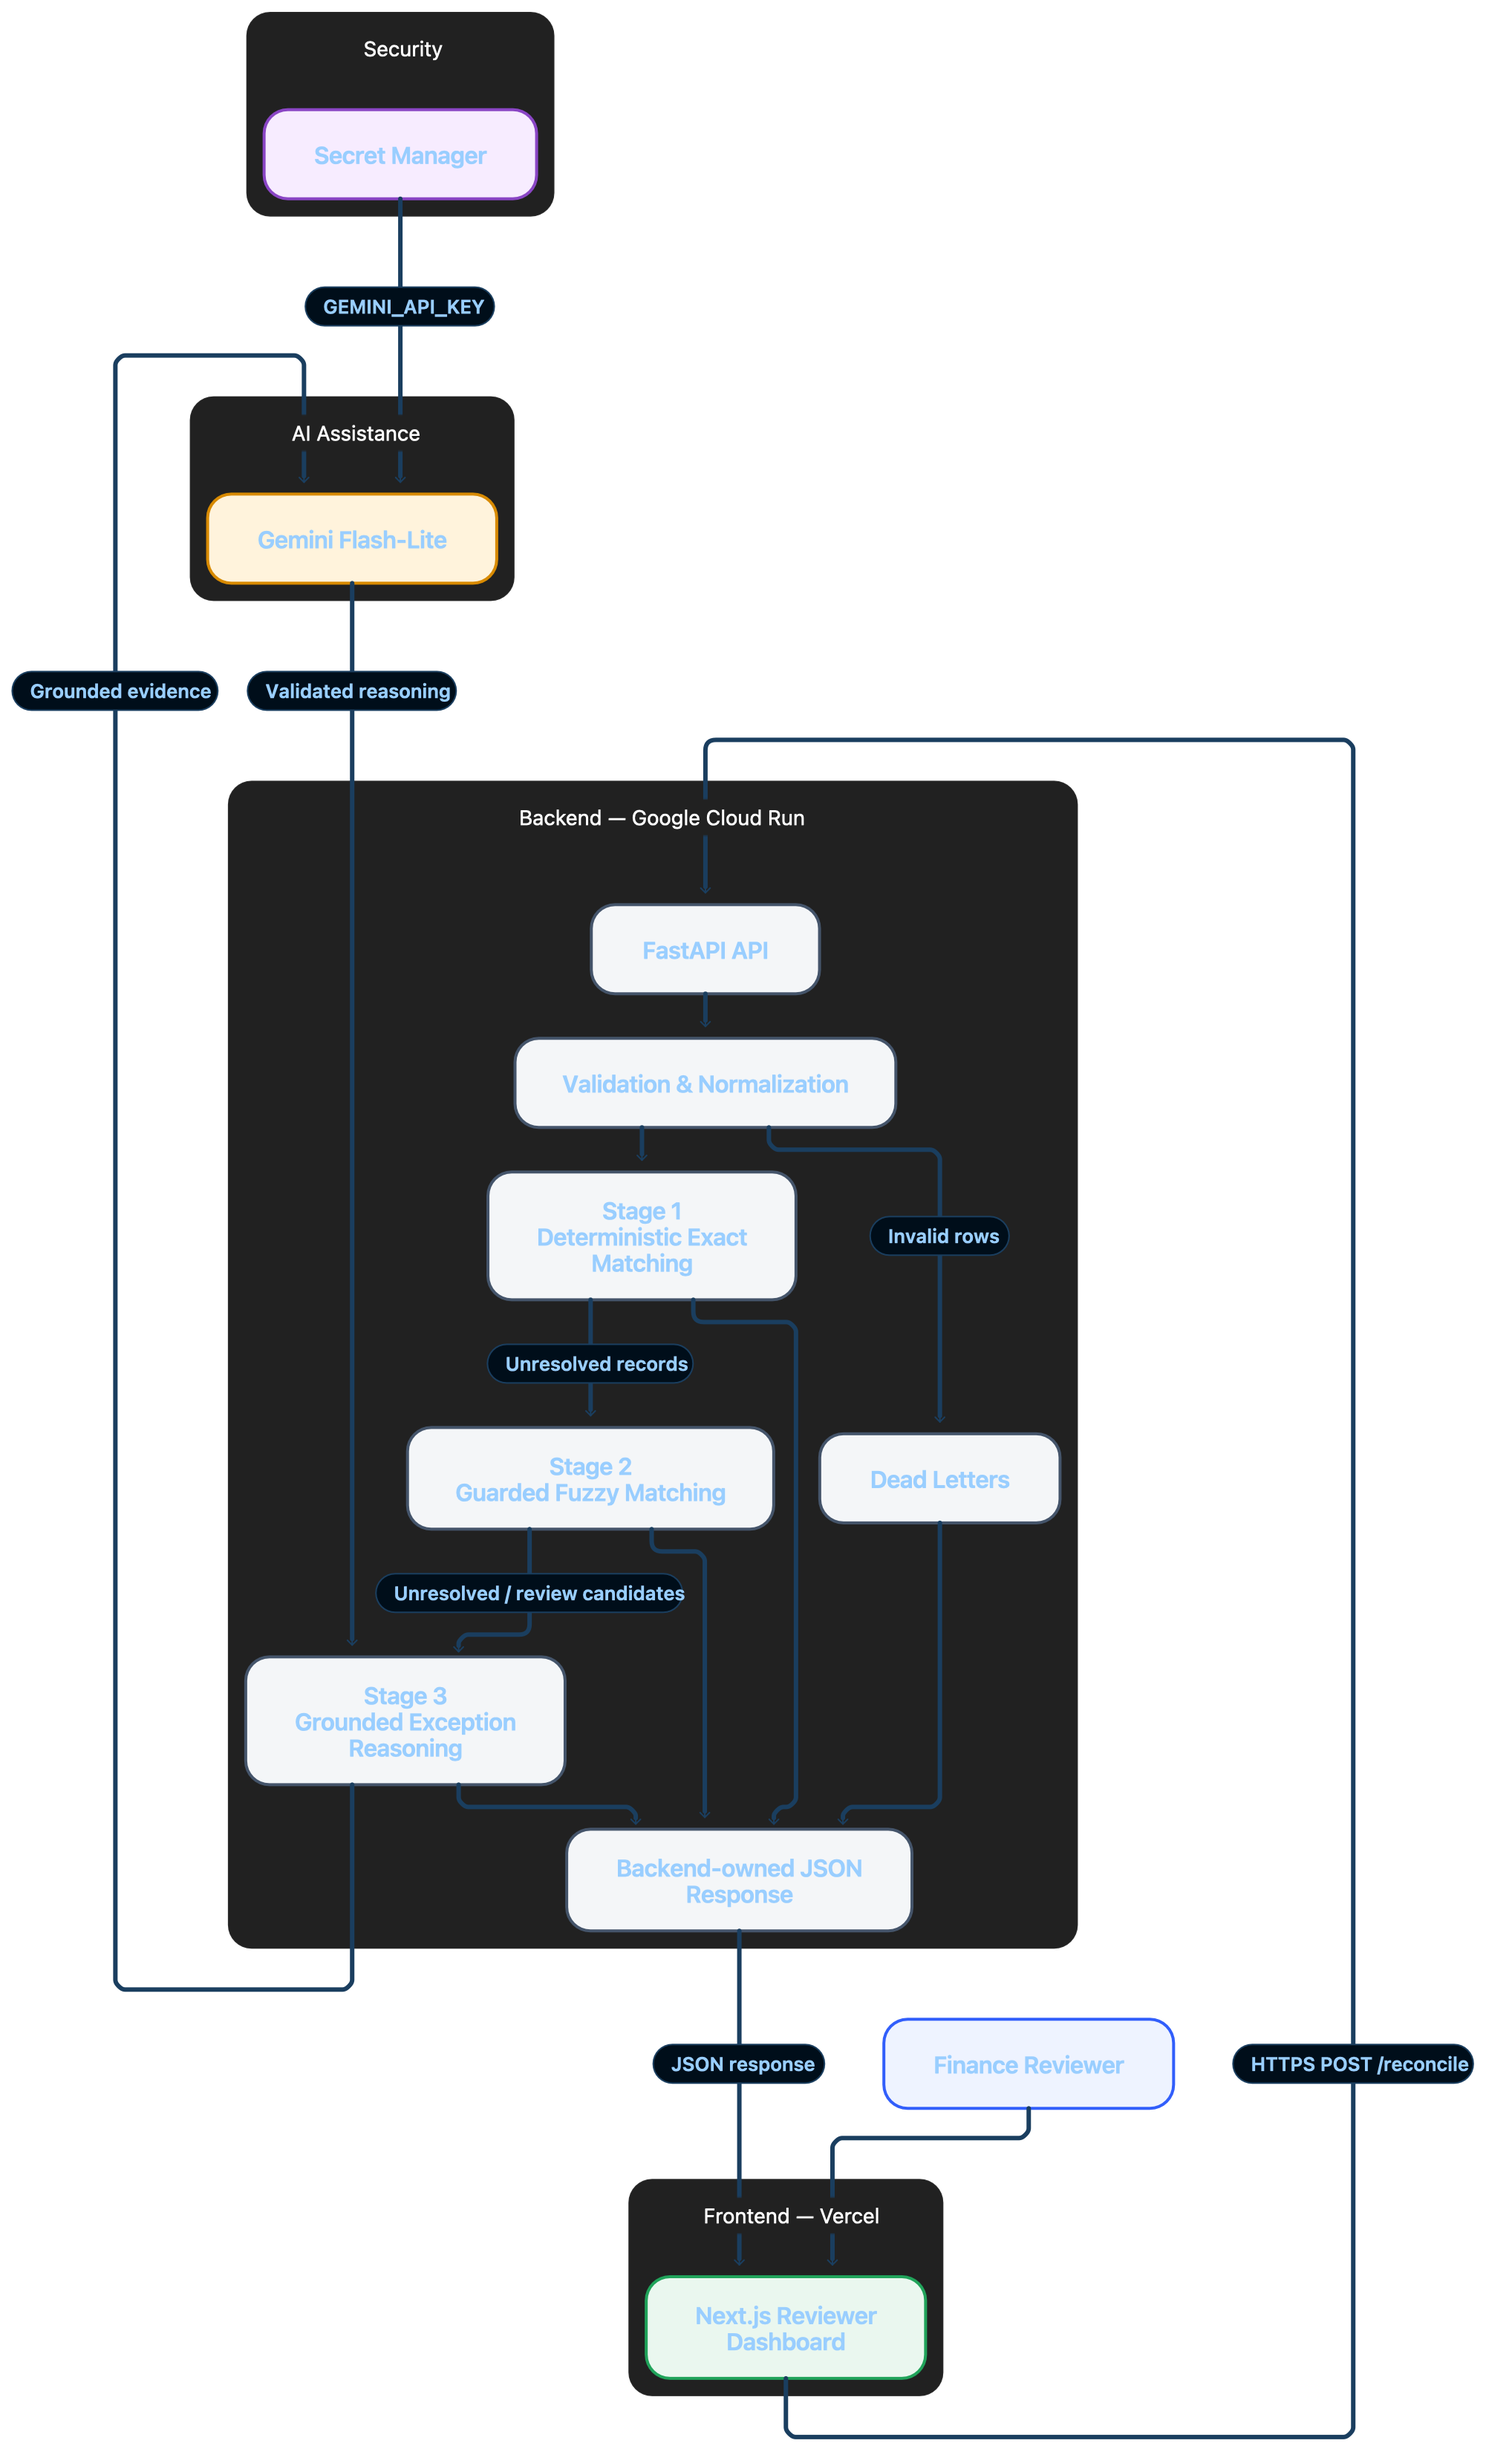
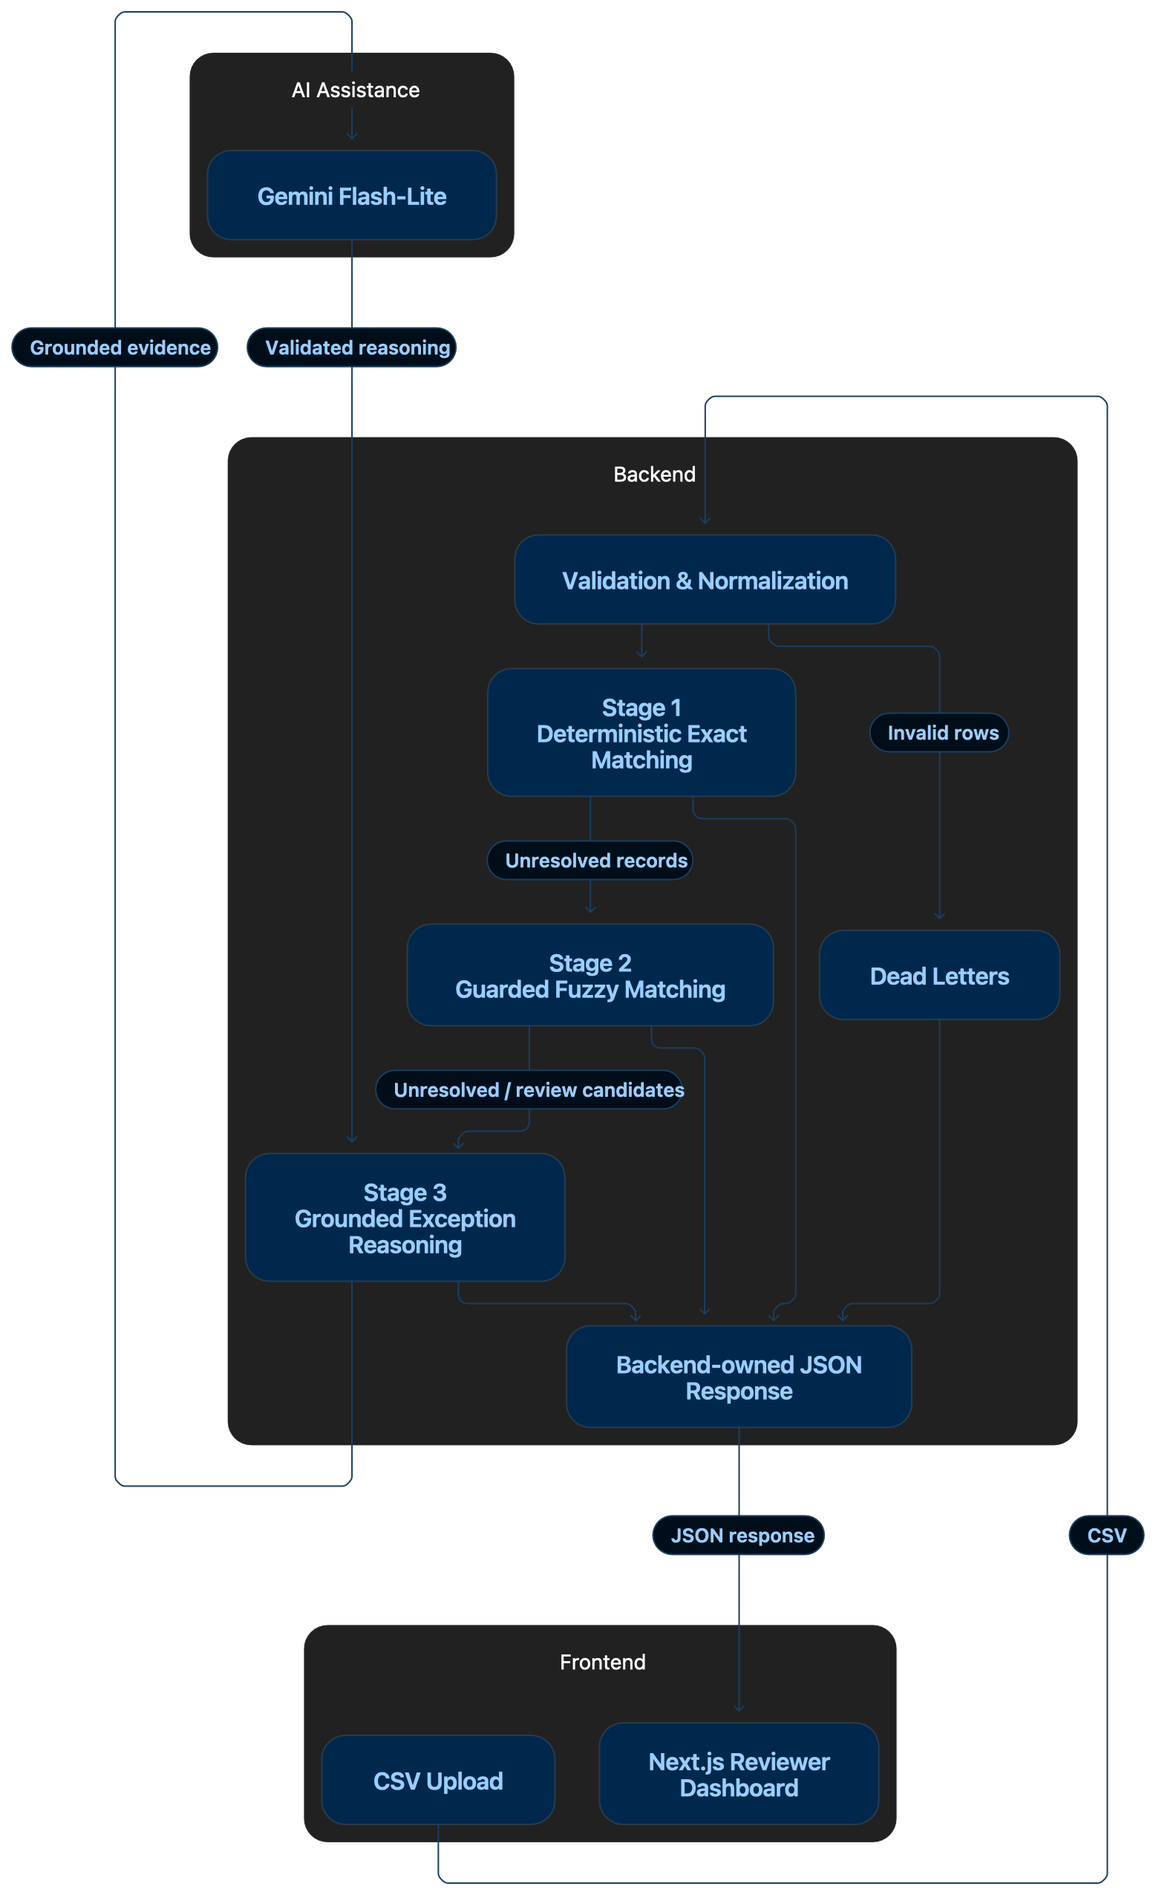
docs: concise README and update architecture diagram

diff --git a/README.md b/README.md
@@ -57,37 +57,7 @@ Stage 1 and Stage 2 own financial truth. Stage 3 does not rewrite their results,
 
 ---
 
-## The important numbers from the verified adversarial batch
 
-The final production-style Cloud Run smoke test processed the full adversarial batch successfully.
-
-| Metric | Result |
-|---|---:|
-| Merchant rows | 84 |
-| Razorpay rows | 89 |
-| Bank rows | 64 |
-| Valid merchant rows | 83 |
-| Valid Razorpay rows | 88 |
-| Valid bank rows | 63 |
-| Exact ledger → Razorpay | 70 |
-| Fuzzy ledger → Razorpay | 4 |
-| Ledger reconciled links | 74 |
-| Exact settlement → bank | 5 |
-| Fuzzy settlement → bank | 0 |
-| Settlement amount mismatches | 1 |
-| Stage 3 handoffs | 11 |
-| Dead letters | 3 |
-| Backend-approved matches | 79 |
-
-`79` is a **backend-owned outcome count**. It is deliberately not reconstructed by the frontend from multiple arrays.
-
-For the valid merchant population, the batch produced a ledger resolution rate of:
-
-`74 / 83 = 89.2%`
-
-That is a **resolution rate**, not a statistical model-accuracy claim. A true accuracy claim needs independently labelled ground truth. The evaluation methodology is documented in [`docs/EVALUATION_AND_TESTING.md`](docs/EVALUATION_AND_TESTING.md).
-
----
 
 ## What makes the AI safe here
 
@@ -137,38 +107,6 @@ Dead letters are preserved instead of being silently discarded. The frontend pro
 
 ---
 
-## Repository structure
-
-```text
-ai-finance-controller/
-├── README.md
-├── docs/
-│   ├── ARCHITECTURE.md
-│   ├── RECONCILIATION_PIPELINE.md
-│   ├── PROBLEMS_AND_SOLUTIONS.md
-│   ├── EVALUATION_AND_TESTING.md
-│   ├── DEPLOYMENT.md
-│   └── diagrams/
-├── sample-data/
-│   ├── baseline / initial CSV dataset
-│   └── adversarial CSV dataset
-├── backend/
-│   ├── app/
-│   ├── tests/
-│   ├── Dockerfile
-│   ├── .dockerignore
-│   ├── .env.example
-│   └── requirements.txt
-└── frontend/
-    ├── src/
-    ├── public/
-    ├── package.json
-    └── next.config.mjs
-```
-
-The repository keeps both the original/cherry-picked sample dataset and the adversarial dataset in one root-level `sample-data/` directory.
-
----
 
 ## Stack
 
